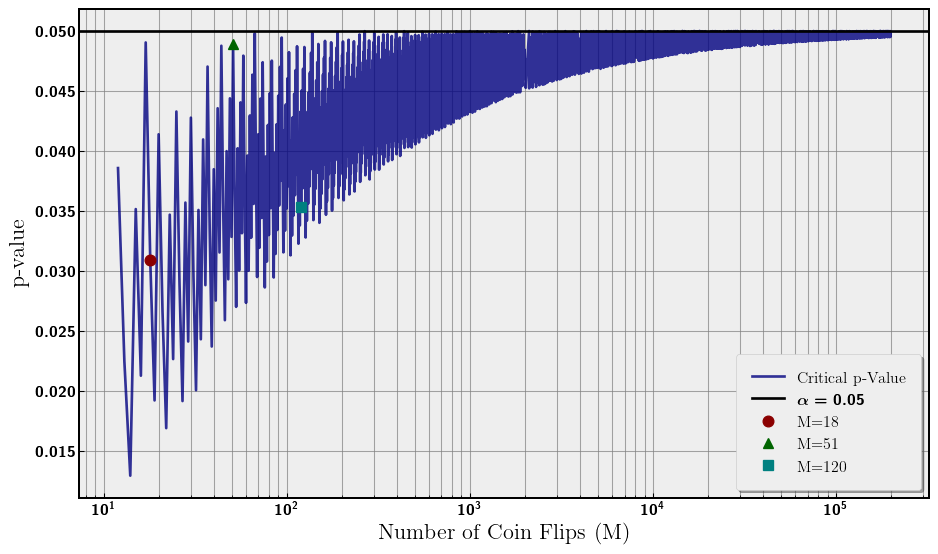
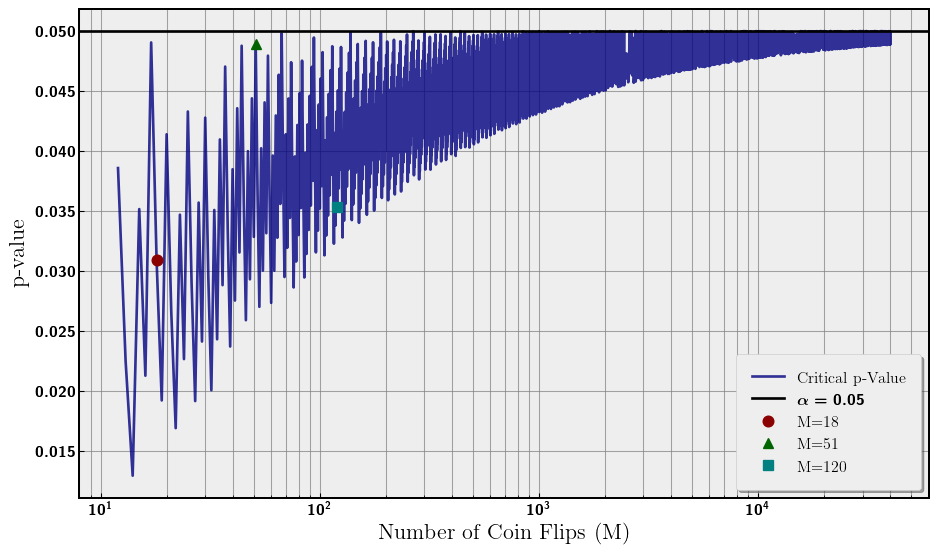
added the actual code

diff --git a/mult_testing/README.md b/mult_testing/README.md
@@ -58,14 +58,30 @@ rcParams['xtick.labelsize'] = 12
 rcParams['ytick.labelsize'] = 12  
 plt.style.use('bmh')
 
-# If you want to see how the simulation was performed 
-# please check out the github repo
-# https://github.com/evanfrang/evanfrangipane.github.io/blob/gh-pages/mult_testing/mult_test.ipynb
+random.seed(42)
+P = 0.5
 
-with open('fwer.pkl', 'rb') as f:
-    fwer_1, fwer_2, fwer_3, M_list, fwer_b1, fwer_b2, fwer_b3, \
-    fwer_N, fwer_bound, fwer_bound_N, fwer_bound_b, Ms, \
-    pvs, index = pickle.load(f)
+def asymp(N_, n_, M_, alpha_): # asnymptotic false positive simulation
+    results = np.random.randint(0, 2, size=(n_, N_, M_))
+    evens = np.sum(results % 2 == 0, axis=2)
+    temp_binomial = binom(M_,P)
+    temp_crit = int(temp_binomial.ppf(alpha_ / 2)-1.)
+    false_positives = np.sum((evens <= temp_crit) | (evens >= M_ - temp_crit),\
+        axis=1) > 0
+    return np.mean(false_positives)
+
+# run three samples with low, med, and high M coin flip
+fwer_N = np.logspace(0,3,10)
+low_M = 18 
+fwer_low = [asymp(int(i), 10000, low_M, 0.05) for i in fwer_N]
+med_M = 51
+fwer_med = [asymp(int(i), 10000, med_M, 0.05) for i in fwer_N]
+high_M = 120
+fwer_high = [asymp(int(i), 10000, high_M, 0.05) for i in fwer_N]
+
+# analytic FWER
+fwer_bound_N = np.arange(1, 1000, 0.1) 
+fwer_bound = 1 - (1 - 0.05)**fwer_bound_N
 ```
 
 We plot the results of our analyses in
@@ -79,11 +95,11 @@ feature is the monotonic increase in Type I Error.
 ``` python
 fig, ax = plt.subplots(figsize=(10, 6))
 ax.plot(fwer_bound_N, fwer_bound, label=r'$1 - (1 - \alpha)^N$', color='navy')
-ax.plot(fwer_N, fwer_1, 'o',label=f'M={M_list[0]}', \
+ax.plot(fwer_N, fwer_low, 'o',label=f'M={low_M}', \
     color='darkred', markersize=6, alpha=0.9)
-ax.plot(fwer_N, fwer_2, '^',label=f'M={M_list[1]}', \
+ax.plot(fwer_N, fwer_med, '^',label=f'M={med_M}', \
     color='darkgreen', markersize=6, alpha=0.9)
-ax.plot(fwer_N, fwer_3, 's',label=f'M={M_list[2]}', \
+ax.plot(fwer_N, fwer_high, 's',label=f'M={high_M}', \
     color='teal', markersize=6, alpha=0.9)
 
 ax.set_xlabel('Number of Tests (N)')
@@ -125,8 +141,18 @@ critical p-value is to 0.05, the closer the FWER is to
 1 − (1 − *α*)<sup>*N*</sup>.
 
 ``` python
-colors = ['red', 'green', 'cyan']
-labels = [f'M={M_list[0]}', f'M={M_list[1]}', f'M={M_list[2]}']
+# calculate critical p-vals
+
+Ms = np.logspace(np.log(3),np.log(100),10000).astype(int)
+bins = [binom(i,P) for i in Ms]
+crits = [int(i.ppf(0.05 / 2)-1.) for i in bins]
+pvs = [2.*bins[i].cdf(min(Ms[i]-crits[i],crits[i])) for i in range(len(Ms))]
+index = [min(range(len(Ms)), key=lambda i: abs(Ms[i]-low_M)), 
+             min(range(len(Ms)), key=lambda i: abs(Ms[i]-med_M)), 
+             min(range(len(Ms)), key=lambda i: abs(Ms[i]-high_M))
+             ]
+
+labels = [f'M={low_M}', f'M={med_M}', f'M={high_M}']
 fig, ax = plt.subplots(figsize=(10, 6))
 ax.plot(Ms, pvs, color='navy', label='Critical p-Value', alpha=0.8)
 ax.axhline(0.05, color='black', label=f'$\\alpha = 0.05$')
@@ -175,15 +201,23 @@ again, where this time because *α* depends on *N*, the critical p-values
 will vary with *N* and thus the hierarchy will vary.
 
 ``` python
+# three samples with bonferroni
+fwer_b_low = [asymp(int(i), 10000, low_M, 0.05/i) for i in fwer_N]
+fwer_b_med = [asymp(int(i), 10000, med_M, 0.05/i) for i in fwer_N]
+fwer_b_high = [asymp(int(i), 10000, high_M, 0.05/i) for i in fwer_N]
+
+# fwer with adjusted alpha = alpha/N
+fwer_bound_b = 1 - (1 - 0.05/fwer_bound_N)**fwer_bound_N
+
 fig, ax = plt.subplots(figsize=(10, 6))
 
 ax.plot(fwer_bound_N, fwer_bound_b, label=r'$1 - (1 - \alpha/N)^N$', \
     color='navy', linewidth=2)
-ax.plot(fwer_N, fwer_b1, 'o', label=f'M={M_list[0]} Bonferroni', \
+ax.plot(fwer_N, fwer_b_low, 'o', label=f'M={low_M} Bonferroni', \
     color='darkred', markersize=6, alpha=0.9)
-ax.plot(fwer_N, fwer_b2, '^', label=f'M={M_list[1]} Bonferroni', \
+ax.plot(fwer_N, fwer_b_med, '^', label=f'M={med_M} Bonferroni', \
     color='darkgreen', markersize=6, alpha=0.9)
-ax.plot(fwer_N, fwer_b3, 's', label=f'M={M_list[2]} Bonferroni', \
+ax.plot(fwer_N, fwer_b_high, 's', label=f'M={high_M} Bonferroni', \
     color='teal', markersize=6, alpha=0.9)
 
 ax.set_xlabel('Number of Tests (N)')
